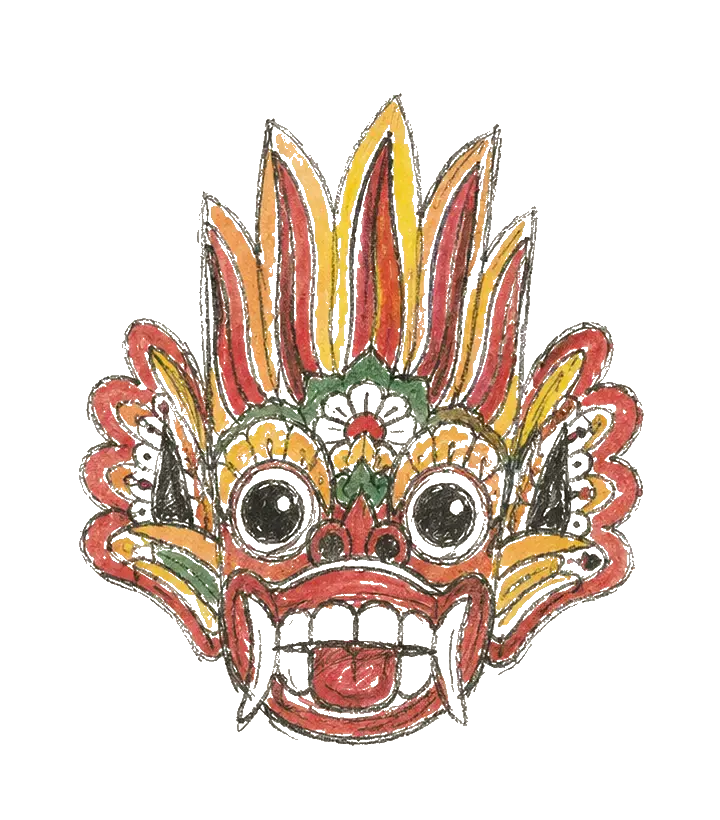
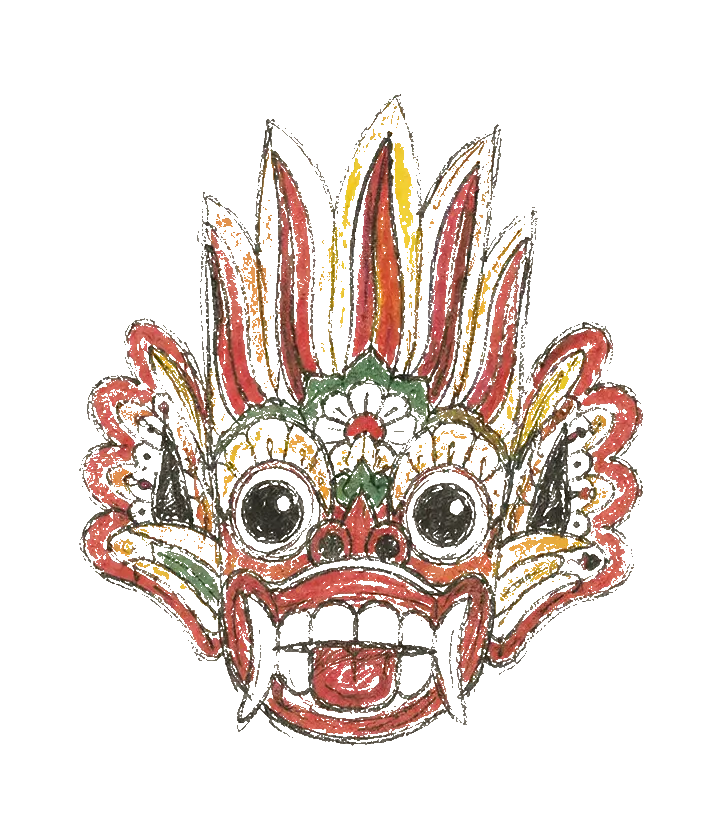
Finish Sri Lanka mask cutout

diff --git a/src/styles/journal.css b/src/styles/journal.css
@@ -361,7 +361,7 @@
 .country-section #country-sri-lanka-3 .country-feature__sri-polaroid--beach{left:44px;bottom:2px;width:180px!important;height:162px!important;transform:rotate(-5deg)}
 .country-section #country-sri-lanka-3 .country-feature__sri-first-stop{position:absolute;z-index:8;top:42px;left:252px;color:var(--terracotta);font-size:1.05rem;line-height:1.35;transform:rotate(-5deg);white-space:nowrap}
 .country-section #country-sri-lanka-3 .country-feature__sri-first-stop b{font:inherit;font-size:.94rem}
-.country-section #country-sri-lanka-3 .country-feature__sri-mask{position:absolute;z-index:5;top:205px;left:-2px;width:154px!important;height:auto!important;border:0!important;box-shadow:none!important;object-fit:contain;filter:none;mix-blend-mode:multiply;transform:rotate(-7deg)}
+.country-section #country-sri-lanka-3 .country-feature__sri-mask{position:absolute;z-index:5;top:205px;left:-2px;width:154px!important;height:auto!important;border:0!important;box-shadow:none!important;object-fit:contain;filter:none;mix-blend-mode:normal;transform:rotate(-7deg)}
 .country-section #country-sri-lanka-3 .country-feature__sri-tape{position:absolute;z-index:9;display:block;width:62px;height:13px;background:rgba(221,190,142,.66);clip-path:polygon(2% 12%,96% 0,100% 82%,8% 100%);filter:drop-shadow(0 1px 0 rgba(126,97,61,.12))}
 .country-section #country-sri-lanka-3 .country-feature__sri-tape--main{top:12px;left:165px;transform:rotate(4deg)}
 .country-section #country-sri-lanka-3 .country-feature__sri-tape--coast{top:191px;right:26px;transform:rotate(-5deg)}
